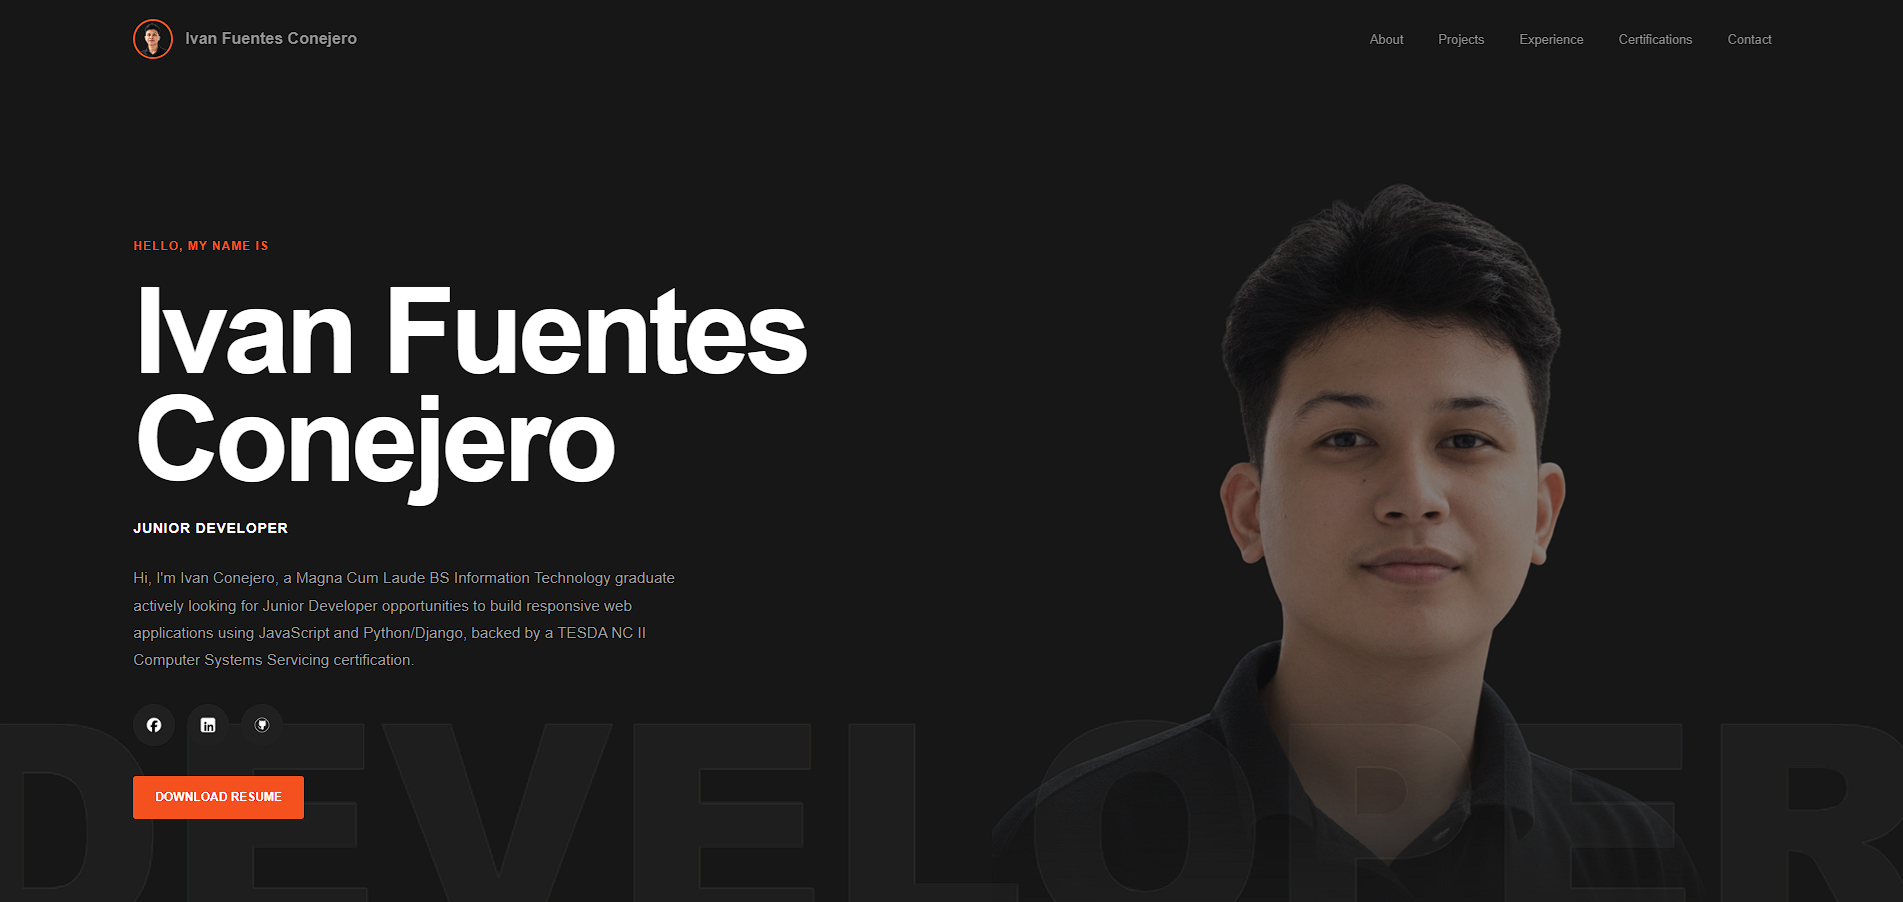
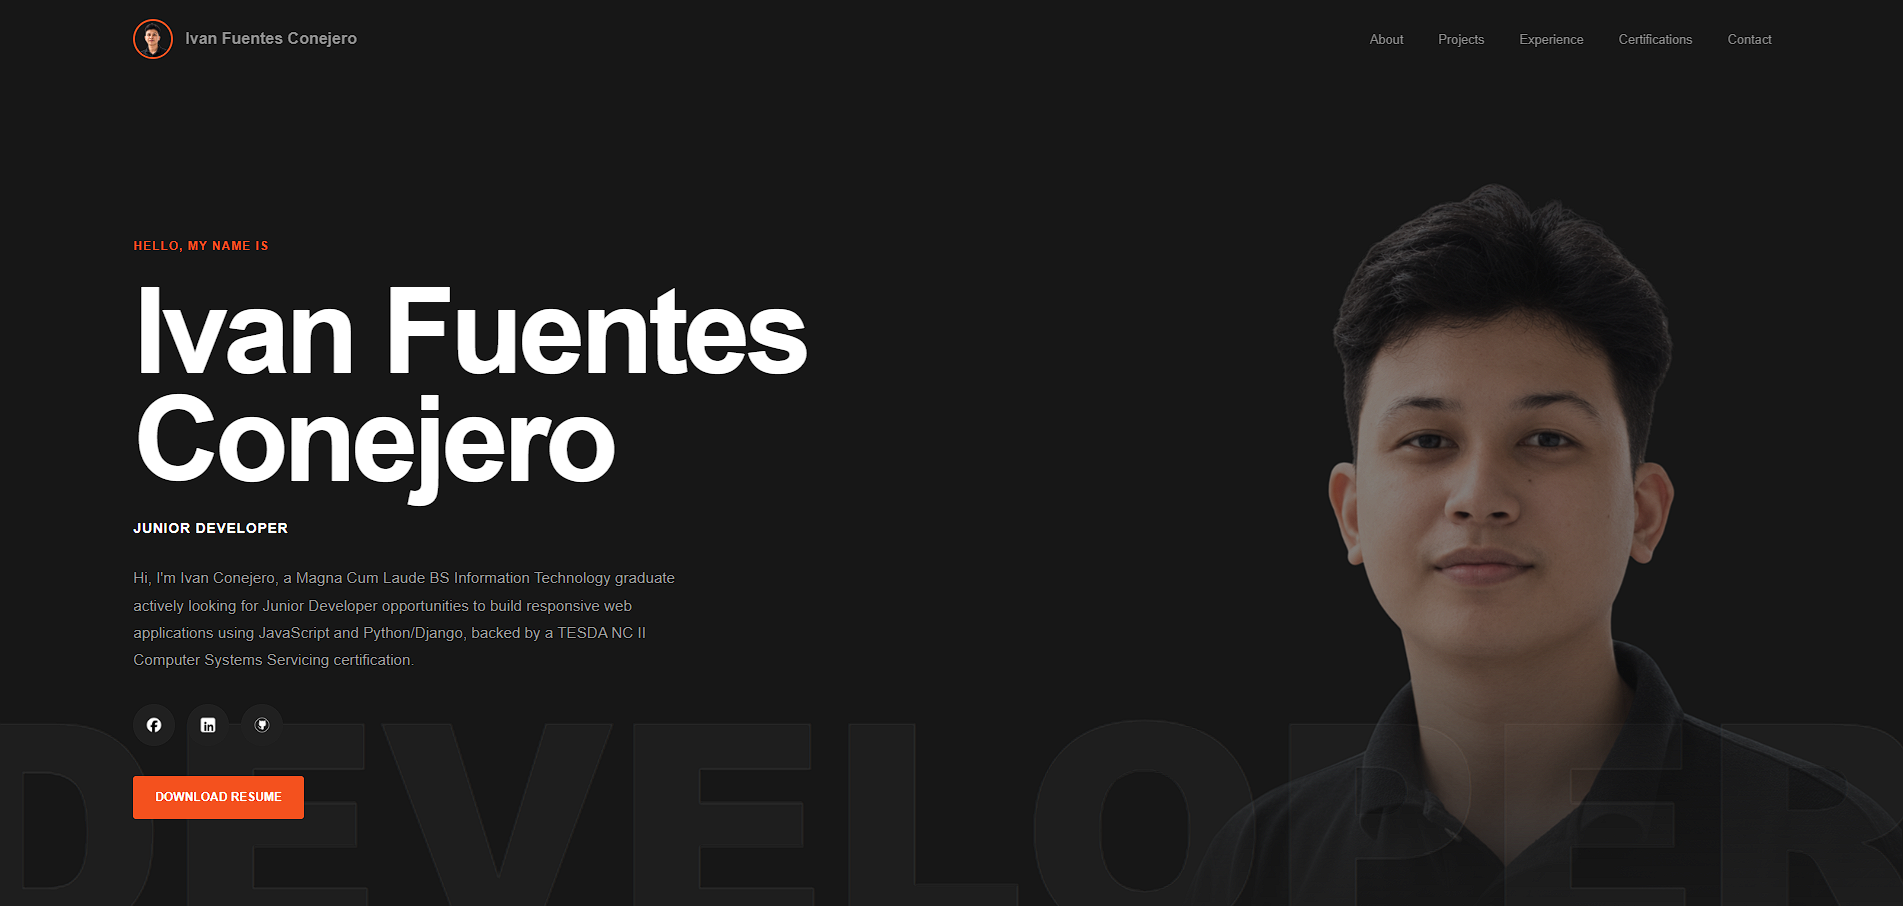
Update portfolio image positioning

diff --git a/css/styles.css b/css/styles.css
@@ -210,13 +210,13 @@ img {
   display: block;
   width: 780px;
   height: 820px;
+  margin-right: -130px;
   object-fit: contain;
   object-position: bottom center;
   opacity: 0.65;
   filter: grayscale(25%) brightness(0.75);
   mask-image: linear-gradient(to bottom, black 65%, transparent 100%);
   -webkit-mask-image: linear-gradient(to bottom, black 65%, transparent 100%);
-  transform: scaleX(-1);
   transform-origin: bottom center;
 }
 
